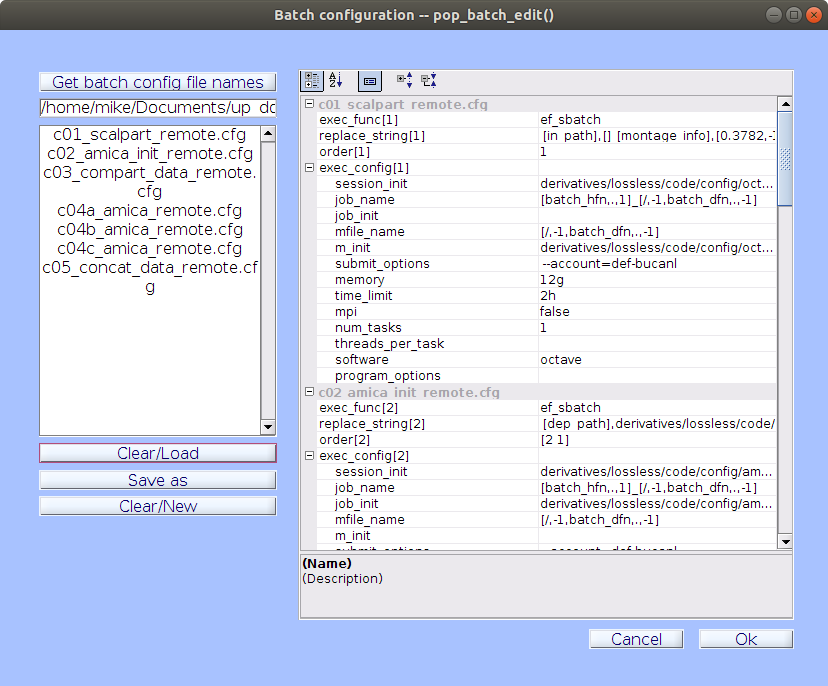
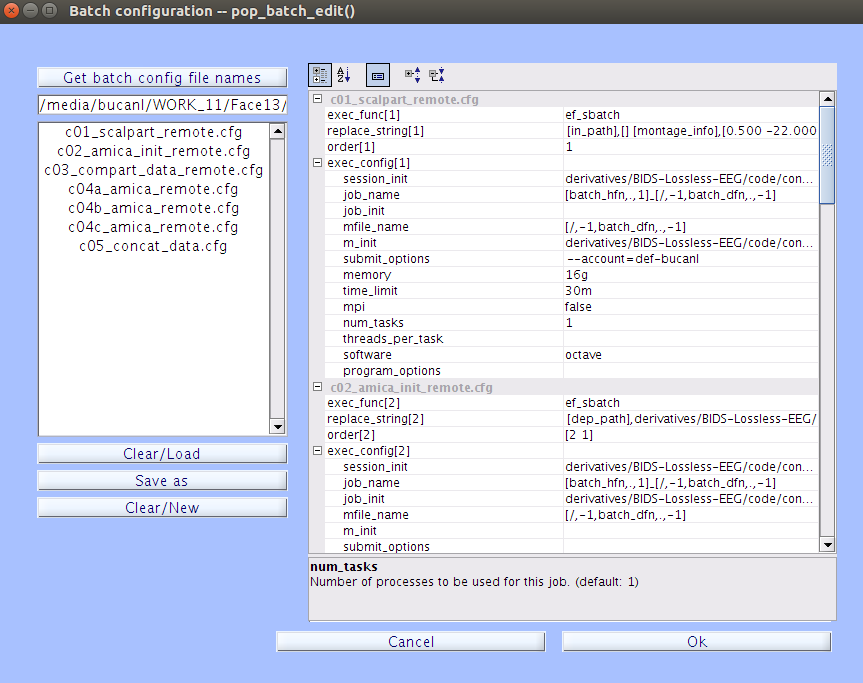
Added coregistration episode and updated figures

Changed region(s): [[0.0302, 0.0922, 0.9964, 0.9531], [0.0, 0.0, 1.0, 0.0615], [0.6643, 0.4919, 0.6944, 0.5534]]

diff --git a/_episodes/05-submit.md b/_episodes/05-submit.md
@@ -9,8 +9,8 @@ objectives:
 - "Submitting a batch of EEG files to run remotely through the Lossless pipeline."
 keypoints:
 - "Ensure you have all the pipeline files and your data files on both the **local** and **remote** machine."
-- "The input file for the Lossless pipeline is `*_eeg.edf` and the output files are `*.edf`, `*icasphere.tsv`, `*icaweights.tsv`, `*_annotations.mat`, `*_annotations.tsv`, and `*_annotations.json`."
-- "Remember to always pay attention to whether you are running a BASH command on your **local** machine versus the **remote** computer cluster."
+- "The input file for the Lossless pipeline is `*_eeg.edf` and the output files are `*.edf`, `*icasphere.tsv`, `*icaweights.tsv`, `*dipole.mat`,  `*_annotations.mat`, `*_annotations.tsv`, and `*_annotations.json`."
+- "Remember to always pay attention to whether you are running a bash command on your **local** machine versus the **remote** computer cluster."
 ---
 
 ## Copy files from local to remote
@@ -45,11 +45,11 @@ keypoints:
 
 4. Modify the appropriate fields under Remote Locations, which will correspond to the remote paths for the project. Change the `remote_user_name` field to you user name on the remote system. The `[remote_project_archive]` field can be left as the default. In the `remote_project_work` and `remote_dependency` fields, change the  `[user_name]` and `[project_name]` to your remote user name and your project name. Once you have finished modifying the context configuration file, select `| Save as |` and navigate to the `derivatives/BIDS-Lossless-EEG/code/config/` directory and save the configuration file here. It is recommended to save the context configuration file as `contextconfig_[user_name]_[project_name].cfg. 
 
-> ## Note
-> The `remote_exec_host` field is the host and domain of the remote system. The `remote_project_archive` field is the remote path to the archieve location for where you would like to store processed files long term. On Graham, typically this is the [project file system](https://docs.computecanada.ca/wiki/Project_layout). Finally, the `remote_project_work` directory is the remote path to the location of the work root project directory, where the actual jobs will be run, and the `remote dependency` is the same as the `remote_project_work` directory, but a few levels deeper (`derivatives/BIDS-Lossless-EEG/code/dependencies/`). For more info, see the Batch Context wiki about [Context configuration files](https://github.com/BUCANL/Batch-Context/wiki/Context-Configuration-Files).
->
-> {: .source}
-{: .callout}
+    > ## Note
+    > The `remote_exec_host` field is the host and domain of the remote system. The `remote_project_archive` field is the remote path to the archieve location for where you would like to store processed files long term. On Graham, typically this is the [project file system](https://docs.computecanada.ca/wiki/Project_layout). Finally, the `remote_project_work` directory is the remote path to the location of the work root project directory, where the actual jobs will be run, and the `remote dependency` is the same as the `remote_project_work` directory, but a few levels deeper (`derivatives/BIDS-Lossless-EEG/code/dependencies/`). For more info, see the Batch Context wiki about [Context configuration files](https://github.com/BUCANL/Batch-Context/wiki/Context-Configuration-Files).
+    >
+    > {: .source}
+    {: .callout}
 
 5. In the EEGLAB drop-down menu, navigate to **File->Batch->Batch Configuration** and click `| Get batch config file names |` to load the default batch configuration file(s) that can then be modified and saved. The configuration files we want to select for the Face13 data are in the `derivatives/BIDS-Lossless-EEG/code/config/face13_sbatch` folder. You want to select the seven files that are named 'c01-c05'. Once the files have been selected, click `| Clear/Load |` to load the files into the property grid.
 
@@ -111,7 +111,7 @@ keypoints:
 
 ## Copy files from remote to local
 
-1. Once the files have successfully run through each stage of the pipeline, you should end up with an identical folder structure (`sub-*/eeg/`) in your **remote** `derivatives/BIDS-Lossless-EEG/` folder for each of the data files that ran through the pipeline. There will be intermediary files and several final output files for each participant. The final output files are `*.edf`, `*icasphere.tsv`, `*icaweights.tsv`, `*_annotations.mat`, `*_annotations.tsv`, `*_annotations.json`, and `*_iclabel.mat`. 
+1. Once the files have successfully run through each stage of the pipeline, you should end up with an identical folder structure (`sub-*/eeg/`) in your **remote** `derivatives/BIDS-Lossless-EEG/` folder for each of the data files that ran through the pipeline. There will be intermediary files and several final output files for each participant. The final output files are `*.edf`, `*icasphere.tsv`, `*icaweights.tsv`, `*dipole.mat`, `*_annotations.mat`, `*_annotations.tsv`, `*_annotations.json`, and `*_iclabel.mat`. 
 
 2. To check if all files have in fact made it through the entire pipeline, you may locate these `*.edf*` files using the find command, and seeing if there are any files missing:
 
@@ -128,7 +128,7 @@ keypoints:
 4. Now, transfer the files using the following command in the terminal, replacing [user_name] with your own username and [project_name] with 'Face13':
 
     ```bash
-    >> rsync -rthvv --prune-empty-dirs --progress --include="*iclabel.mat" --include="*.edf" --include="*icaweights.*" --include="*icasphere.*" --include="*_annotations*" --include="*/" --exclude="*" --exclude=”/*/*/*/*/” [user_name]@gra-dtn1.computecanada.ca:/scratch/[user_name]/[project_name]/derivatives/BIDS-Lossless-EEG/sub-* derivatives/BIDS-Lossless-EEG/
+    >> rsync -rthvv --prune-empty-dirs --progress --include="*dipole.mat" --include="*iclabel.mat" --include="*.edf" --include="*icaweights.*" --include="*icasphere.*" --include="*_annotations*" --include="*/" --exclude="*" --exclude="/*/*/*/*/" [user_name]@gra-dtn1.computecanada.ca:/scratch/[user_name]/[project_name]/derivatives/BIDS-Lossless-EEG/sub-* derivatives/BIDS-Lossless-EEG/
     ```
 
 5. Once this procedure is completed, you should notice all the output files in your **local** `derivatives/BIDS-Lossless-EEG/` directory. These files can now be put through the [QC procedure](https://bucanl.github.io/SDC-LOSSLESS-QC/index.html) for further processing.

diff --git a/_episodes/04-coregister.md b/_episodes/04-coregister.md
@@ -1,0 +1,72 @@
+---
+title: "Co-registering EEG Data"
+teaching: 20
+exercises: 10
+questions:
+- "Why is co-registering the data important?"
+- "How do I co-register EEG data?"
+objectives:
+- "Understand why co-registering data is important"
+- "Understand how to co-register EEG data"
+keypoints:
+- "Co-registering "
+---
+
+## Introduction
+
+- Co-registering is the process of aligning the recording montage with a standard montage
+
+Co-registration of the data to the standard MNI head will occur during the pipeline in the s01_scalprat script. Prior to running the pipeline, the appropriate transformation matrix that will warp the recorded data to the standard montage needs to be determined. The transformation matrix that will be used for the study can be determined using the `ll_validate.m` script. 
+
+This transformation matrix can then be input into [montage_info] in the batch configuration file c01.
+
+The recorded data will be warped to the standard montage based off of a transformation matrix that is stated in [montage_info] in the batch configuration file c01. Before files are submitted to the pipeline, the transformation matrix that will be used for the study needs to be determined using the `ll_validate.m` script. 
+
+## Co-registration Procedure 
+
+1. Open MATLAB and navigate to your **local** project directory to make it your current path.
+
+2. Open EEGLAB by typing the following into the command window:
+
+    ```matlab
+    >> addpath derivatives/BIDS-Lossless-EEG/code/install
+    >> lossless_path
+    >> eeglab
+    ```
+
+3. To determine the correct transformation matrix to co-register your data to a standard montage (the MNI head) run the `ll_validate.m` script in the MATLAB command window:
+
+    ```matlab
+    >> ll_validate
+    ```
+4. In the open file dialog window navigate to `sub-001/eeg/` and select the `sub-001_task-FaceFO_eeg.edf` file. You may need to change the `Files of Type` field to `All Files`. Determining the transformation matrix only needs to be done once per study and this process can be completed using any of the data files. 
+
+5. A popup window that plots the recording montage and the standard montage will appear. The goal is to have the two montages sit on the same surface with corresponding electrodes as close to each other as possible. This can be done by adjusting the parameters of the transformation matrix that are located at the bottom of the window.
+
+        ![CoregistrationMontage]({{ page.root }}/fig/rotated_coreg.png)
+
+Hints: 
+- the recording montage is on a very different scale than the standard montage- this can be adjusted by putting large numbers in the Resize(x), Resize(y), and Resize(z) fields.
+- The nose direction of the montages differs. This can be corrected by putting a negative number in the Yaw(rad) field (-1.58).
+- Once the montages are the same size and facing the same direction, use the Move right, Move front, and Move up fields to adjust where the montages are in space relative to each other
+- Trying to get the montages to exactly overlap
+- Look at the fiducials (LPA, Nz, RPA) to see how well they are lining up 
+- The head that is shown with the montages can be toggled by pressing the `Mesh on/off` button
+
+> ## Solution
+> ![WarpedMontage]({{ page.root }}/fig/aligned_montageon.png)
+> [0.500 -22.000 -48.000 -0.065 0.000 -1.580 1060.000 1260.000 1220.000]
+>
+> {: .output}
+{: .solution}
+
+6. When you are satisfied with the alignment between the two montages, select the `Ok` button.
+
+7. In the MATLAB command window, it will print: [montage_info] for c01_scalpart.cfg followed by the transformation matrix (nine numbers). Copy and paste these values into the c01_scalpart_remote.cfg file located in `derivatives/BIDS-Lossless-EEG/code/config/face13_sbatch`. These numbers need to be within square brackets. 
+
+        ![TransformationMatrix]({{ page.root }}/fig/highlighted_transformmatrix.png)
+
+8. In the EEGLAB drop-down menu, navigate to **File** and select `Clear study/ Clear all` to remove the dataset from memory.
+
+{% include links.md %}
+
